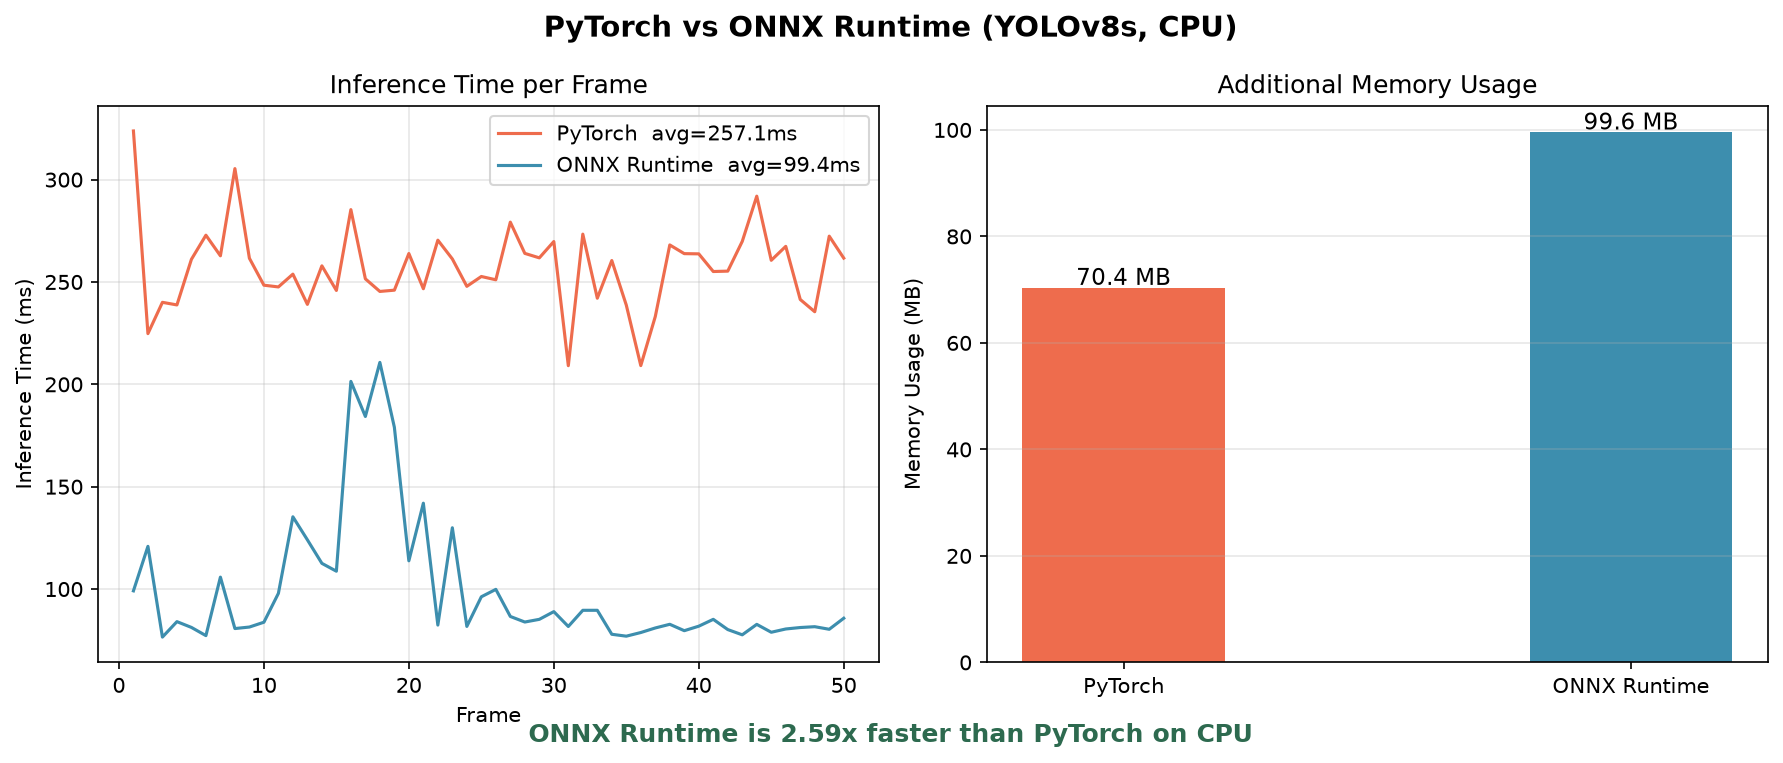
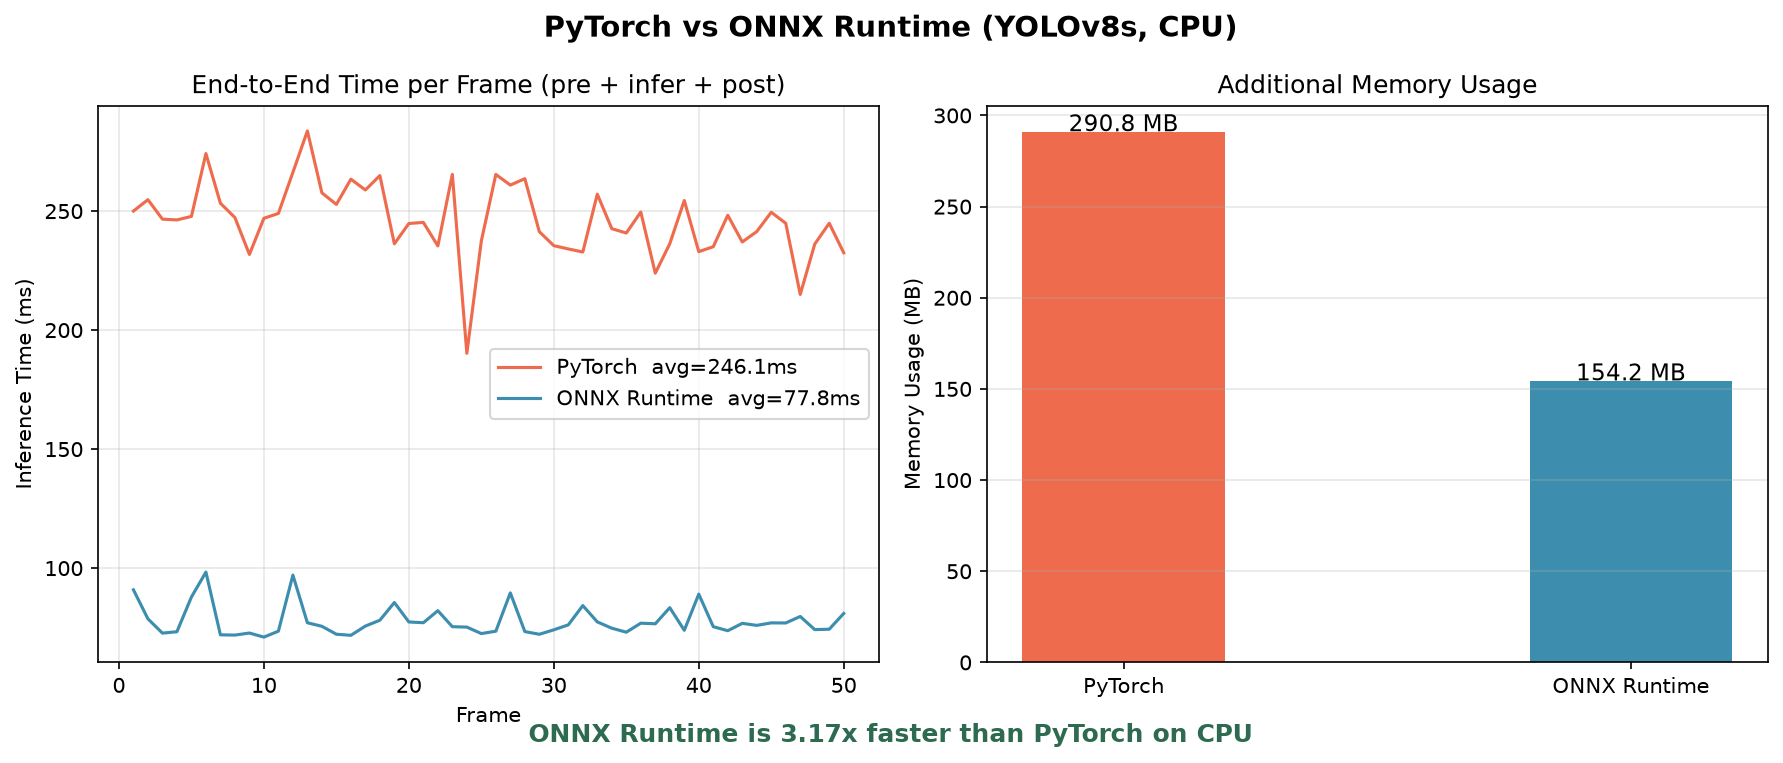
Overhaul reproducibility, benchmark, and API
- Fix setup docs: remove missing export_onnx step, add models/.gitkeep and HLS URL guide
- Add /detect JSON API and /health endpoint
- Rework benchmark with equal timing scope and warmup, update results (~3x speedup)
- Split runtime and dev requirements to slim production image
- Load HLS_URL via env_file in docker-compose, point healthcheck to /health
- Add CI workflow running pytest and docker build

diff --git a/src/benchmark.py b/src/benchmark.py
@@ -1,6 +1,7 @@
 import argparse
-import time
+import gc
 import os
+import time
 
 import cv2
 import matplotlib.pyplot as plt
@@ -9,21 +10,13 @@ import psutil
 from ultralytics import YOLO
 import onnxruntime as ort
 
+from src.stream import preprocess as stream_preprocess, postprocess as stream_postprocess
+
 ONNX_PATH = "/app/models/yolov8s.onnx"
 PT_PATH = "yolov8s.pt"
-INPUT_SIZE = (640, 640)
 HLS_URL = os.environ.get("HLS_URL", "")
+WARMUP = 10
 
-def preprocess(frame_bgr):
-    h, w = frame_bgr.shape[:2]
-    scale = min(INPUT_SIZE[0] / w, INPUT_SIZE[1] / h)
-    nw, nh = int(w * scale), int(h * scale)
-    resized = cv2.resize(frame_bgr, (nw, nh))
-    canvas = np.full((INPUT_SIZE[1], INPUT_SIZE[0], 3), 114, dtype=np.uint8)
-    pad_x, pad_y = (INPUT_SIZE[0] - nw) // 2, (INPUT_SIZE[1] - nh) // 2
-    canvas[pad_y:pad_y+nh, pad_x:pad_x+nw] = resized
-    blob = canvas[:, :, ::-1].transpose(2, 0, 1).astype(np.float32) / 255.0
-    return blob[np.newaxis]
 
 def grab_frames(n):
     print(f"從串流抓取 {n} 幀...")
@@ -38,49 +31,71 @@ def grab_frames(n):
     print(f"取得 {len(frames)} 幀")
     return frames
 
+
 def benchmark_onnx(frames):
     print("ONNX Runtime 推論中...")
-    session = ort.InferenceSession(ONNX_PATH, providers=["CPUExecutionProvider"])
-    input_name = session.get_inputs()[0].name
-    times = []
+    gc.collect()
     proc = psutil.Process()
     mem_before = proc.memory_info().rss / 1024 / 1024
-    for frame in frames:
-        blob = preprocess(frame)
-        t0 = time.perf_counter()
+    session = ort.InferenceSession(ONNX_PATH, providers=["CPUExecutionProvider"])
+    input_name = session.get_inputs()[0].name
+
+    for frame in frames[:WARMUP]:
+        blob, scale, px, py = stream_preprocess(frame)
         session.run(None, {input_name: blob})
+
+    times = []
+    for frame in frames:
+        h, w = frame.shape[:2]
+        t0 = time.perf_counter()
+        blob, scale, px, py = stream_preprocess(frame)
+        output = session.run(None, {input_name: blob})
+        stream_postprocess(output, scale, px, py, w, h)
         times.append((time.perf_counter() - t0) * 1000)
+
     mem_after = proc.memory_info().rss / 1024 / 1024
+    del session
+    gc.collect()
     return times, mem_after - mem_before
+
 
 def benchmark_pytorch(frames):
     print("PyTorch 推論中...")
-    model = YOLO(PT_PATH)
-    times = []
+    gc.collect()
     proc = psutil.Process()
     mem_before = proc.memory_info().rss / 1024 / 1024
+    model = YOLO(PT_PATH)
+
+    for frame in frames[:WARMUP]:
+        model(frame, verbose=False)
+
+    times = []
     for frame in frames:
         t0 = time.perf_counter()
         model(frame, verbose=False)
         times.append((time.perf_counter() - t0) * 1000)
+
     mem_after = proc.memory_info().rss / 1024 / 1024
+    del model
+    gc.collect()
     return times, mem_after - mem_before
+
 
 def plot(onnx_times, pt_times, onnx_mem, pt_mem, n):
     fig, (ax1, ax2) = plt.subplots(1, 2, figsize=(12, 5))
     fig.suptitle("PyTorch vs ONNX Runtime (YOLOv8s, CPU)", fontsize=14, fontweight="bold")
-    ax1.plot(range(1, n+1), pt_times, label=f"PyTorch  avg={np.mean(pt_times):.1f}ms", color="#EE6C4D", linewidth=1.5)
-    ax1.plot(range(1, n+1), onnx_times, label=f"ONNX Runtime  avg={np.mean(onnx_times):.1f}ms", color="#3D8EAE", linewidth=1.5)
+    ax1.plot(range(1, n + 1), pt_times, label=f"PyTorch  avg={np.mean(pt_times):.1f}ms", color="#EE6C4D", linewidth=1.5)
+    ax1.plot(range(1, n + 1), onnx_times, label=f"ONNX Runtime  avg={np.mean(onnx_times):.1f}ms", color="#3D8EAE", linewidth=1.5)
     ax1.set_xlabel("Frame")
     ax1.set_ylabel("Inference Time (ms)")
-    ax1.set_title("Inference Time per Frame")
+    ax1.set_title("End-to-End Time per Frame (pre + infer + post)")
     ax1.legend()
     ax1.grid(True, alpha=0.3)
     bars = ax2.bar(["PyTorch", "ONNX Runtime"], [pt_mem, onnx_mem], color=["#EE6C4D", "#3D8EAE"], width=0.4)
     ax2.set_ylabel("Memory Usage (MB)")
     ax2.set_title("Additional Memory Usage")
     for bar, val in zip(bars, [pt_mem, onnx_mem]):
-        ax2.text(bar.get_x() + bar.get_width()/2, bar.get_height() + 0.5, f"{val:.1f} MB", ha="center", fontsize=11)
+        ax2.text(bar.get_x() + bar.get_width() / 2, bar.get_height() + 0.5, f"{val:.1f} MB", ha="center", fontsize=11)
     ax2.grid(True, alpha=0.3, axis="y")
     speedup = np.mean(pt_times) / np.mean(onnx_times)
     fig.text(0.5, 0.01, f"ONNX Runtime is {speedup:.2f}x faster than PyTorch on CPU",
@@ -90,6 +105,7 @@ def plot(onnx_times, pt_times, onnx_mem, pt_mem, n):
     plt.savefig(out_path, dpi=150, bbox_inches="tight")
     print(f"圖表已存到 {out_path}")
 
+
 def main(n):
     frames = grab_frames(n)
     if not frames:
@@ -97,12 +113,13 @@ def main(n):
         return
     onnx_times, onnx_mem = benchmark_onnx(frames)
     pt_times, pt_mem = benchmark_pytorch(frames)
-    print(f"\nPyTorch      平均推論時間: {np.mean(pt_times):.1f}ms")
-    print(f"ONNX Runtime 平均推論時間: {np.mean(onnx_times):.1f}ms")
+    print(f"\nPyTorch      平均時間: {np.mean(pt_times):.1f}ms")
+    print(f"ONNX Runtime 平均時間: {np.mean(onnx_times):.1f}ms")
     print(f"加速比: {np.mean(pt_times)/np.mean(onnx_times):.2f}x")
     print(f"\nPyTorch      記憶體增量: {pt_mem:.1f}MB")
     print(f"ONNX Runtime 記憶體增量: {onnx_mem:.1f}MB")
     plot(onnx_times, pt_times, onnx_mem, pt_mem, len(frames))
+
 
 if __name__ == "__main__":
     ap = argparse.ArgumentParser()

diff --git a/src/stream.py b/src/stream.py
@@ -1,17 +1,16 @@
-import io
 import os
 import time
 import threading
 import cv2
 import numpy as np
 import onnxruntime as ort
-from datetime import datetime, timezone, timedelta
-TAIPEI = timezone(timedelta(hours=8))
-from PIL import Image
 import uvicorn
 from fastapi import FastAPI
 from fastapi.responses import HTMLResponse, Response
+from datetime import datetime, timezone, timedelta
 
+TAIPEI = timezone(timedelta(hours=8))
+LOCATION_NAME = os.environ.get("LOCATION_NAME", "Taipei Intersection")
 HLS_URL = os.environ.get("HLS_URL", "")  # 設定在 .env 或環境變數
 ONNX_PATH = "/app/models/yolov8s.onnx"
 INPUT_SIZE = (640, 640)
@@ -34,7 +33,7 @@ COLORS = {
 }
 
 app = FastAPI()
-state = {"frame": b"", "stats": "等待中..."}
+state = {"frame": b"", "stats": "等待中...", "detections": [], "updated_at": None}
 
 def preprocess(frame_bgr):
     h, w = frame_bgr.shape[:2]
@@ -143,6 +142,12 @@ def inference_loop():
                 _, buf = cv2.imencode(".jpg", annotated, [cv2.IMWRITE_JPEG_QUALITY, 82])
                 state["frame"] = buf.tobytes()
                 state["stats"] = summary or "無目標"
+                state["detections"] = [
+                    {"label": label, "confidence": round(conf, 3),
+                    "box": {"x1": x1, "y1": y1, "x2": x2, "y2": y2}}
+                    for label, conf, (x1, y1, x2, y2) in dets
+                ]
+                state["updated_at"] = datetime.now(TAIPEI).isoformat()
 
             cap.release()
         except Exception as e:
@@ -152,8 +157,25 @@ def inference_loop():
 @app.get("/feed")
 def feed():
     if not state["frame"]:
-        return Response("等待中...", media_type="text/plain")
+        return Response("stream not ready", media_type="text/plain", status_code=503)
     return Response(state["frame"], media_type="image/jpeg")
+
[email redacted]("/detect")
+def detect():
+    return {
+        "updated_at": state["updated_at"],
+        "count": len(state["detections"]),
+        "detections": state["detections"],
+    }
+
[email redacted]("/health")
+def health():
+    if state["updated_at"] is None:
+        return Response("no frames yet", status_code=503)
+    age = (datetime.now(TAIPEI) - datetime.fromisoformat(state["updated_at"])).total_seconds()
+    if age > 60:
+        return Response(f"stale: last frame {age:.0f}s ago", status_code=503)
+    return {"status": "ok", "last_frame_age_sec": round(age, 1)}
 
 @app.get("/stats")
 def stats():
@@ -174,7 +196,7 @@ def index():
       </style>
     </head>
     <body>
-      <h2>🚦 133-松高松智路口 即時偵測 (YOLOv8s ONNX)</h2>
+      <h2>🚦 {LOCATION_NAME} 即時偵測 (YOLOv8s ONNX)</h2>
       <img id="feed" src="/feed"/>
       <div class="legend">
         <span class="dot" style="background:#00ff00"></span>person　

diff --git a/tests/test_api.py b/tests/test_api.py
@@ -1,15 +1,20 @@
 from fastapi.testclient import TestClient
 from src.stream import app
 
-
-def test_feed_endpoint_exists():
+def test_feed_returns_503_before_stream_starts():
     with TestClient(app) as client:
         r = client.get("/feed")
-        assert r.status_code == 200
-
-
+        assert r.status_code == 503
+        
 def test_stats_endpoint():
     with TestClient(app) as client:
         r = client.get("/stats")
         assert r.status_code == 200
         assert "stats" in r.json()
+
+def test_detect_endpoint():
+    with TestClient(app) as client:
+        r = client.get("/detect")
+        assert r.status_code == 200
+        body = r.json()
+        assert "detections" in body and "count" in body

diff --git a/README.md b/README.md
@@ -1,3 +1,5 @@
+![CI](https://github.com/marshmallow3210/Traffic-Detection/actions/workflows/ci.yml/badge.svg)
+
 # Traffic-Detection
 
 Real-time object detection on live Taipei city traffic camera streams using YOLOv8s ONNX Runtime, served via FastAPI and containerized with Docker.
@@ -19,7 +21,9 @@ Real-time object detection on live Taipei city traffic camera streams using YOLO
 
 ![benchmark](sample_images/benchmark.png)
 
-ONNX Runtime runs **2.59x faster** than PyTorch on CPU (avg 99ms vs 257ms per frame), with no loss in detection accuracy. This gap is expected to widen further on edge hardware with TensorRT.
+ONNX Runtime runs **~3x faster** than PyTorch on CPU (avg 78ms vs 246ms per frame, ranging 2.75x to 3.45x across 5 runs). It also uses about 40% less additional memory (154MB vs 267MB), which matters on memory-constrained edge devices. This gap is expected to widen further with TensorRT on edge hardware.
+
+Timing covers the full per-frame pipeline (preprocess + inference + postprocess), with 10 warmup frames excluded. Both frameworks run on identical input frames captured from the live stream. Measured on MacBook Air (M5, 32GB) inside a Docker container (linux/arm64), CPU execution only.
 
 ## Pipeline
 
@@ -36,6 +40,18 @@ PyTorch training → ONNX export → ONNX Runtime inference → API service → 
 ```
 
 The same ONNX model can switch execution providers (CPU, CUDA, TensorRT) with a single line change, no model modification needed.
+
+## Getting a Stream URL
+
+This project uses Taipei City's public traffic cameras.
+
+1. Open https://its.taipei.gov.tw and pick an intersection camera
+2. Open browser DevTools (F12) → Network tab, filter by `m3u8`
+3. Play the stream, copy the `.m3u8` request URL
+4. Paste it into `.env` as `HLS_URL=...`
+
+Note: stream URLs contain a token and expire after some time.
+If the app logs "Unable to start streaming", re-extract a fresh URL.
 
 ## Setup (Development)
 
@@ -58,6 +74,7 @@ This drops you into a shell inside the container.
 Step 3. Inside the container, export the ONNX models. This only needs to run once.
 
 ```bash
+mkdir -p models
 yolo export model=yolov8s.pt format=onnx opset=17
 mv yolov8s.onnx models/
 ```
@@ -65,7 +82,6 @@ mv yolov8s.onnx models/
 Step 4. Inside the container, load the stream URL and start the service.
 
 ```bash
-export HLS_URL=$(grep HLS_URL .env | cut -d= -f2)
 python -m src.stream
 ```
 
@@ -105,6 +121,6 @@ Only the stream URL is passed at runtime. No further setup is needed.
 ## Known Limitations
 
 - Motorcycle and bicycle detection is unreliable at overhead angles due to domain shift from COCO training data. Riders are often classified as person when viewed from above. Fine tuning on local traffic footage would improve this.
-- Inference runs on CPU only. Switching to `TensorrtExecutionProvider` on Jetson would reduce latency from about 90ms to under 10ms.
+- Inference runs on CPU only. Switching to `TensorrtExecutionProvider` on Jetson would reduce latency from about 78ms to under 10ms.
 - Stream URL may expire and require re extraction from browser DevTools.
 - NMS occasionally leaves overlapping boxes on the same object (e.g. two bus boxes on one vehicle). Tuning `NMS_IOU` in `src/stream.py` may help.